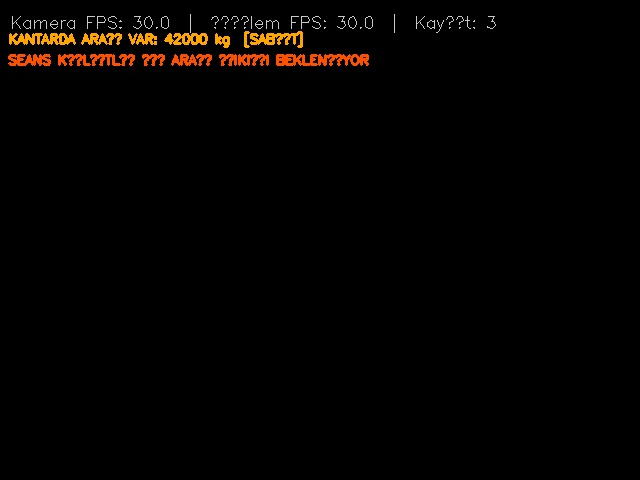
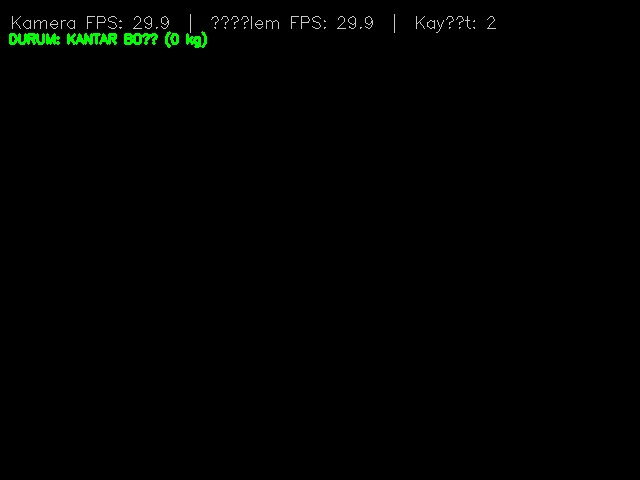
kaydedicide bir hata var dı net ağrılık 0 çıkıyordu

Changed region(s): [[0.0, 0.0312, 0.5938, 0.1562], [0.75, 0.0312, 0.7812, 0.0625], [0.5312, 0.0312, 0.5625, 0.0625]]

diff --git a/otokantar_app/db/kaydedici.py b/otokantar_app/db/kaydedici.py
@@ -178,7 +178,7 @@ class KantarKaydedici:
             cikis_tarih=simdi.strftime("%Y-%m-%d"),
             cikis_saat=simdi.strftime("%H:%M:%S"),
             cikis_agirlik=cikis_agirlik,
-            net_agirlik=max(0.0, giris_agirlik - cikis_agirlik),
+            net_agirlik=abs( giris_agirlik - cikis_agirlik),
             durum="TAMAMLANDI",
         )
         self.gecis_kaydet(kayit)
